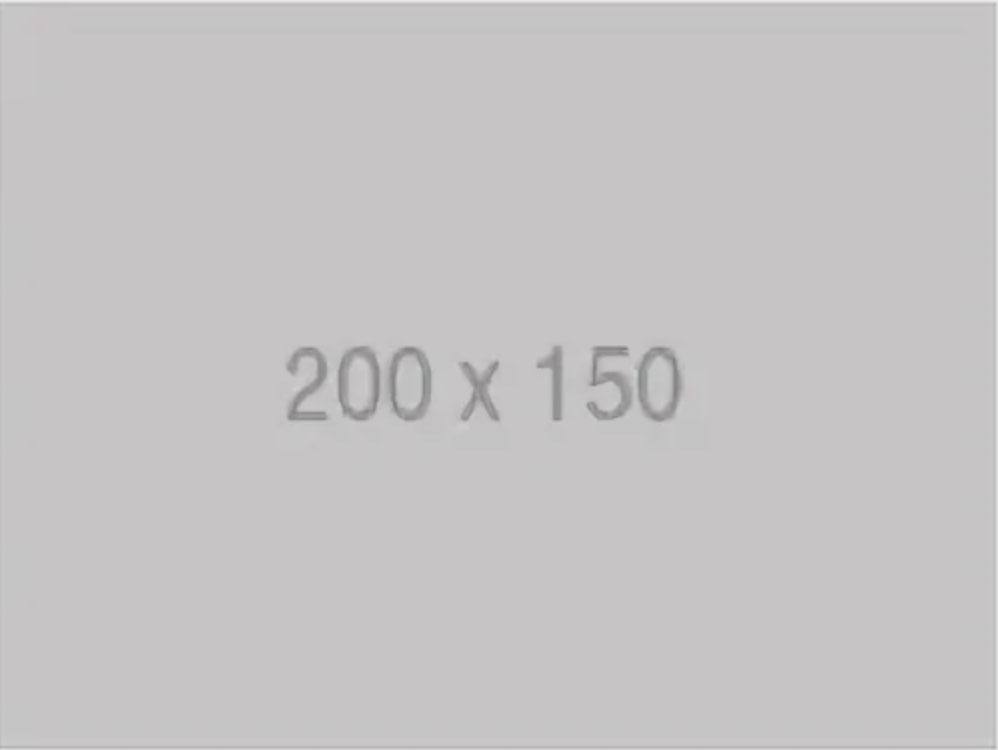
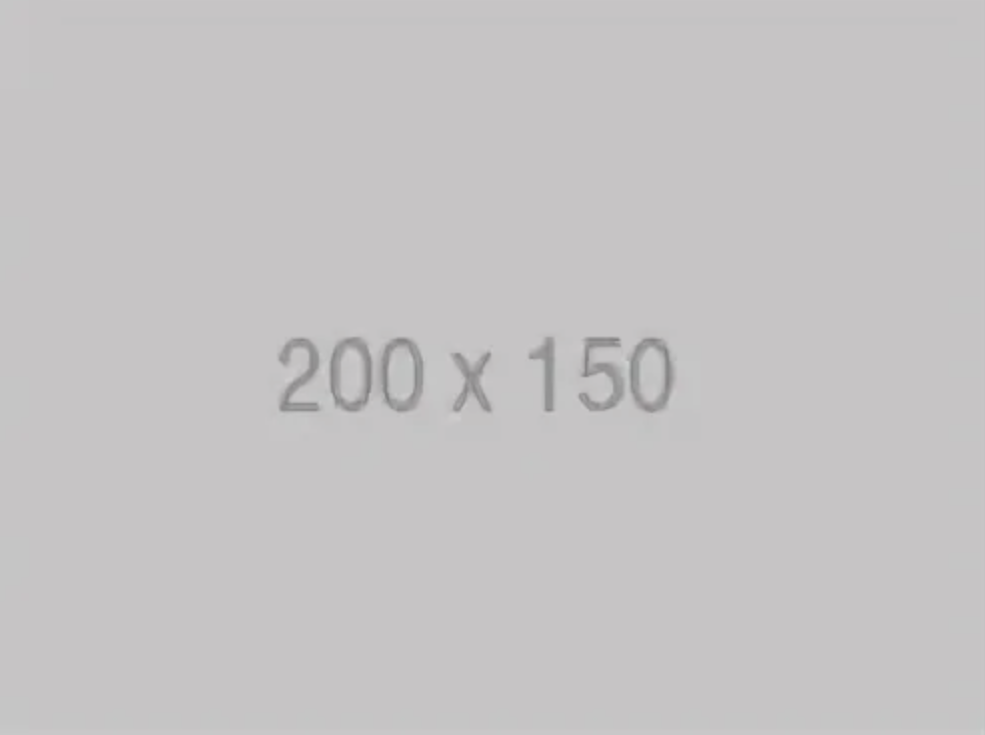
task4: some update

Changed region(s): [[0.2741, 0.449, 0.4264, 0.5687], [0.9746, 0.0, 1.0, 0.0299], [0.6091, 0.449, 0.6396, 0.4789]]

diff --git a/task1/script.js b/task1/script.js
@@ -6,7 +6,8 @@ class GoodsItem {
         this.id = id;
         this.title = title;
         this.price = price;
-        this.img = "./img/product.png";
+        // this.img = "./img/product.png";
+        this.img = 'https://via.placeholder.com/200x150';
         this.caption = 'Known for her sculptural takes on traditional tailoring, Australian arbiter of cool Kym Ellery teams up with Moda Operandi.';
     }
 
@@ -14,12 +15,12 @@ class GoodsItem {
         return `<li class="goods__item">
                     <div class="goods__img-box">
                         <img class="goods__img" src="${this.img}" alt="Product img">
-                        <a class="goods__cart-button" href="#">
+                        <button class="goods__cart-button" type="button">
                             <svg class="goods__cart-icon" width="27" height="25" viewBox="0 0 27 25" xmlns="http://www.w3.org/2000/svg">
                                 <path d="M21.876 22.2662C21.921 22.2549 21.9423 22.2339 21.96 22.2129C21.9678 22.2037 21.9756 22.1946 21.9835 22.1855C22.02 22.1438 22.0233 22.0553 22.0224 22.0105C22.0092 21.9044 21.9185 21.8315 21.8412 21.8315C21.8375 21.8315 21.8336 21.8317 21.8312 21.8318C21.7531 21.8372 21.6653 21.9409 21.6719 22.0625C21.6813 22.1793 21.7675 22.2662 21.8392 22.2662H21.876ZM8.21954 22.2599C8.31873 22.2599 8.39935 22.1655 8.39935 22.0496C8.39935 21.9341 8.31873 21.8401 8.21954 21.8401C8.12042 21.8401 8.03973 21.9341 8.03973 22.0496C8.03973 22.1655 8.12042 22.2599 8.21954 22.2599ZM21.9995 24.2662C21.9517 24.2662 21.8878 24.2662 21.8392 24.2662C20.7017 24.2662 19.7567 23.3545 19.6765 22.198C19.5964 20.9929 20.4937 19.9183 21.6953 19.8364C21.7441 19.8331 21.7928 19.8315 21.8412 19.8315C22.9799 19.8315 23.9413 20.7324 24.019 21.8884C24.0505 22.4915 23.8741 23.0612 23.4898 23.5012C23.1055 23.9575 22.5764 24.2177 21.9995 24.2662ZM8.21954 24.2599C7.01532 24.2599 6.03973 23.2709 6.03973 22.0496C6.03973 20.8291 7.01532 19.8401 8.21954 19.8401C9.42371 19.8401 10.3994 20.8291 10.3994 22.0496C10.3994 23.2709 9.42371 24.2599 8.21954 24.2599ZM21.1984 17.3938H9.13306C8.70013 17.3938 8.31586 17.1005 8.20331 16.6775L4.27753 2.24768H1.52173C0.993408 2.24768 0.560547 1.80859 0.560547 1.27039C0.560547 0.733032 0.993408 0.292969 1.52173 0.292969H4.99933C5.43134 0.292969 5.81561 0.586304 5.9281 1.01025L9.85394 15.4391H20.5576L24.1144 7.13379H12.2578C11.7286 7.13379 11.2957 6.69373 11.2957 6.15649C11.2957 5.61914 11.7286 5.17908 12.2578 5.17908H25.5886C25.9091 5.17908 26.2141 5.34192 26.3896 5.61914C26.566 5.89539 26.5984 6.23743 26.4697 6.547L22.0795 16.807C21.9193 17.1653 21.5827 17.3938 21.1984 17.3938Z"></path>
                             </svg>
                             <span>Add to Cart</span>
-                        </a>
+                        </button>
                     </div>
                     <h3 class="goods__item-title">${this.title}</h3>
                     <p class="goods__item-text">${this.caption}</p>
@@ -67,10 +68,6 @@ class GoodsList {
     }
 }
 
-const list = new GoodsList();
-// суммарная стоимость всех товаров выведена в консоль
-// list.getSum();
-
 // набросок классов для работы корзины
 class CartList {
     // конструктор
@@ -99,7 +96,8 @@ class CartList {
             const goodItem = new CartItem(good.id_product, good.product_name, good.price, good.quantity);
             listHtml += goodItem.render();
         });
-        block.innerHTML = listHtml;
+        block.insertAdjacentHTML('beforeend', listHtml);
+        // innerHTML = listHtml;
     }
 
     // добавляем элемент с помощью CartItem
@@ -111,11 +109,6 @@ class CartList {
     removeItem() {
 
     }
-
-    // суммарная стоимость каждого товара из корзины
-    getGoodsSum() {
-
-    }
 }
 
 class CartItem {
@@ -125,7 +118,7 @@ class CartItem {
         this.title = title;
         this.price = price;
         this.count = count;
-        this.img = "./img/product.png";
+        this.img = "https://via.placeholder.com/200x150";
     }
 
     // формирование разметки
@@ -143,33 +136,16 @@ class CartItem {
                     </div>
                     <div class="cart__item-box2">
                         <p class="cart__item-sum">$${this.price * this.count}</p>
-                        <button class="cart__item-remove" type="button">
-                            <svg xmlns="http://www.w3.org/2000/svg" width="16" height="16" fill="currentColor" class="bi bi-x" viewBox="0 0 16 16">
-                                <path d="M4.646 4.646a.5.5 0 0 1 .708 0L8 7.293l2.646-2.647a.5.5 0 0 1 .708.708L8.707 8l2.647 2.646a.5.5 0 0 1-.708.708L8 8.707l-2.646 2.647a.5.5 0 0 1-.708-.708L7.293 8 4.646 5.354a.5.5 0 0 1 0-.708z"/>
-                            </svg>
-                        </button>
+                        <button class="cart__item-remove" type="button">&times;</button>
                     </div>
                 </li>`;
     }
 }
 
-const cart = new CartList();
+new GoodsList();
+new CartList();
 
-// пока оставлю здесь
-
-// // функция, которая добавляет товары в html-документ
-// const renderGoodsList = (list) => {
-//     let goodsList = list.map(item => renderGoodsItem(item.title, item.price, item.img));
-//     document.querySelector('.goods__list').innerHTML = goodsList.join('');
-// }
-
-// fetchGoods() {
-//     this.goods = [
-//         { title: 'Shirt', price: 150 },
-//         { title: 'Socks', price: 50 },
-//         { title: 'Jacket', price: 350 },
-//         { title: 'Shoes', price: 250 },
-//         { title: 'Dress', price: 150 },
-//         { title: 'T-shirt', price: 300 },
-//     ];
-// }
+//появление корзины по клику
+document.querySelector('.cart__button').addEventListener("click", function() {
+    document.querySelector('.cart__list').classList.toggle('invisible');
+});

diff --git a/task1/style.css b/task1/style.css
@@ -5,6 +5,14 @@
     --blue: #1466a6;
 }
 
+body {
+    font-family: 'Lato', sans-serif;
+    font-size: 14px;
+    line-height: 17px;
+    font-weight: 400;
+    color: var(--black);
+}
+
 .container {
     margin: 0 auto;
     width: 1140px;
@@ -30,7 +38,7 @@
 }
 
 .cart__button {
-    border: 1.5px solid var(--white);
+    border: none;
     font-size: 14px;
     font-weight: 400;
     line-height: 17px;
@@ -38,25 +46,44 @@
     text-decoration: none;
     width: 138px;
     height: 43px;
-    background-color: var(--white);
+    background-color: white;
 }
 
 .cart__button:hover {
     border: none;
     background-color: var(--black);
     color: #FFFFFF;
+    cursor: pointer;
 }
 
 .cart__list {
     display: flex;
     flex-direction: column;
-    margin-bottom: 64px;
+    margin-bottom: 48px;
+    box-shadow: 0px 0px 8px -5px #9F9F9F;
+}
+
+.cart__item-heading {
+    font-size: 18px;
+    font-weight: 400;
+    line-height: 21px;
+    margin: 16px 0px 8px 12px;
+}
+
+.cart__item:first-child {
+    margin-bottom: 12px;
 }
 
 .cart__item {
     display: flex;
-    margin-bottom: 16px;
-    border: 1px solid #000;
+    justify-content: space-between;
+    margin-bottom: 8px;
+    padding-bottom: 8px;
+    border-bottom: .5px solid #9F9F9F;
+}
+
+.cart__item:last-child {
+    border: none;
 }
 
 .cart__item-box1 {
@@ -64,11 +91,64 @@
 }
 
 .cart__img-box {
-    width: 10%;
+    width: 150px;
 }
 
 .cart__img {
-    width: 100%;
+    max-width: 100%;
+    padding: 5px;
+}
+
+.cart__item-title {
+    font-size: 13px;
+    font-weight: 400;
+    line-height: 16px;
+    margin: 16px 0 24px 18px;
+}
+
+.cart__item-price {
+    font-size: 13px;
+    font-weight: 400;
+    line-height: 16px;
+    color: var(--blue);
+    margin: 0 0 6px 18px;
+}
+
+.cart__item-count {
+    margin: 0 0 18px 18px;
+    font-size: 14px;
+    font-weight: 300;
+    line-height: 17px;
+    color: #9F9F9F;
+}
+
+.cart__item-box2 {
+    display: flex;
+    flex-direction: column;
+    justify-content: space-evenly;
+    align-items: center;
+    margin-right: 32px;
+}
+
+.cart__item-sum {
+    color: var(--blue);
+    font-size: 16px;
+    font-weight: 400;
+    line-height: 19px;
+}
+
+.cart__item-remove {
+    border: none;
+    color: white;
+    background-color: var(--black);
+    font-size: 25px;
+    width: 35px;
+    height: 35px;
+}
+
+.cart__item-remove:hover {
+    cursor: pointer;
+    background-color: var(--blue);
 }
 
 .goods__list {
@@ -109,6 +189,7 @@
     line-height: 17px;
     border: 1px solid #FFFFFF;
     color: #FFFFFF;
+    background: none;
     text-decoration: none;
     width: 138px;
     height: 43px;
@@ -117,6 +198,7 @@
 .goods__cart-button:hover {
     color: var(--blue);
     border: 1px solid var(--blue);
+    cursor: pointer;
 }
 
 .goods__cart-button:hover>.goods__cart-icon {
@@ -163,4 +245,8 @@
     font-weight: 400;
     line-height: 19px;
     color: var(--blue);
+}
+
+.invisible {
+    display: none;
 }

diff --git a/task1/index.html b/task1/index.html
@@ -6,8 +6,11 @@
     <meta http-equiv="X-UA-Compatible" content="IE=edge">
     <meta name="viewport" content="width=device-width, initial-scale=1.0">
     <title>eShop</title>
-    <link rel="stylesheet" href="style.css">
     <link rel="stylesheet" href="reset.css">
+    <link rel="stylesheet" href="style.css">
+    <link rel="preconnect" href="https://fonts.googleapis.com">
+    <link rel="preconnect" href="https://fonts.gstatic.com" crossorigin>
+    <link href="https://fonts.googleapis.com/css2?family=Lato:wght@100;300;400;700;900&display=swap" rel="stylesheet">
 </head>
 
 <body>
@@ -18,8 +21,11 @@
         </div>
     </header>
     <main class="container">
-        <h2>Корзина</h2>
-        <ul class="cart__list"></ul>
+        <ul class="cart__list invisible">
+            <li class="cart__item">
+                <h2 class="cart__item-heading">Ваша корзина</h2>
+            </li>
+        </ul>
         <ul class="goods__list"></ul>
     </main>
     <script src="script.js"></script>
